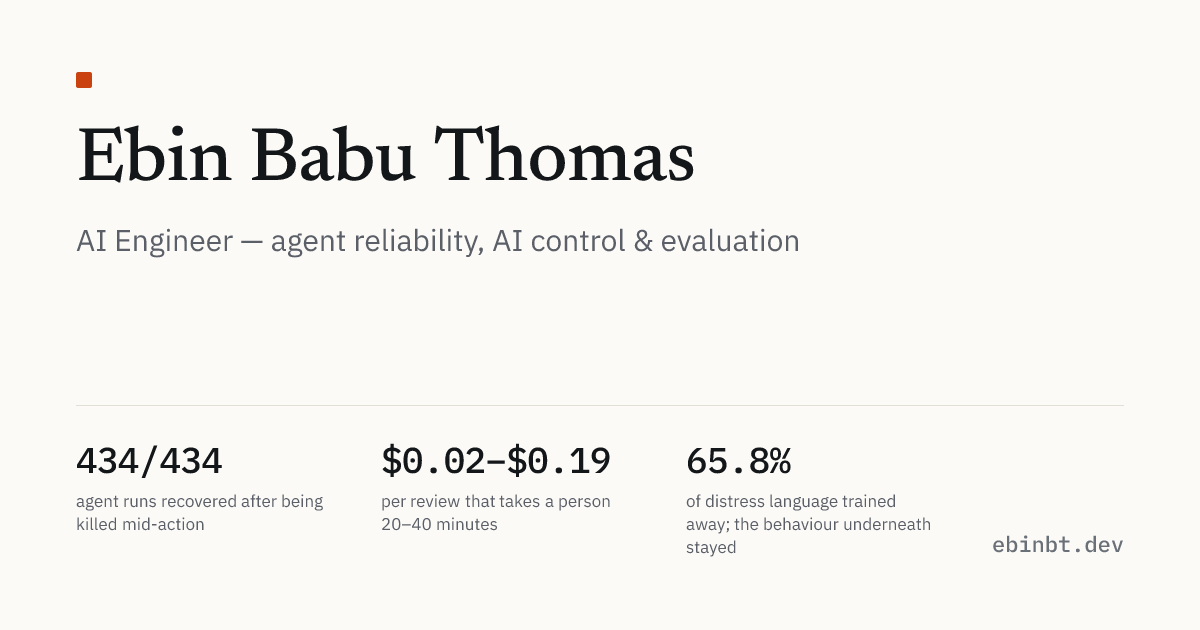
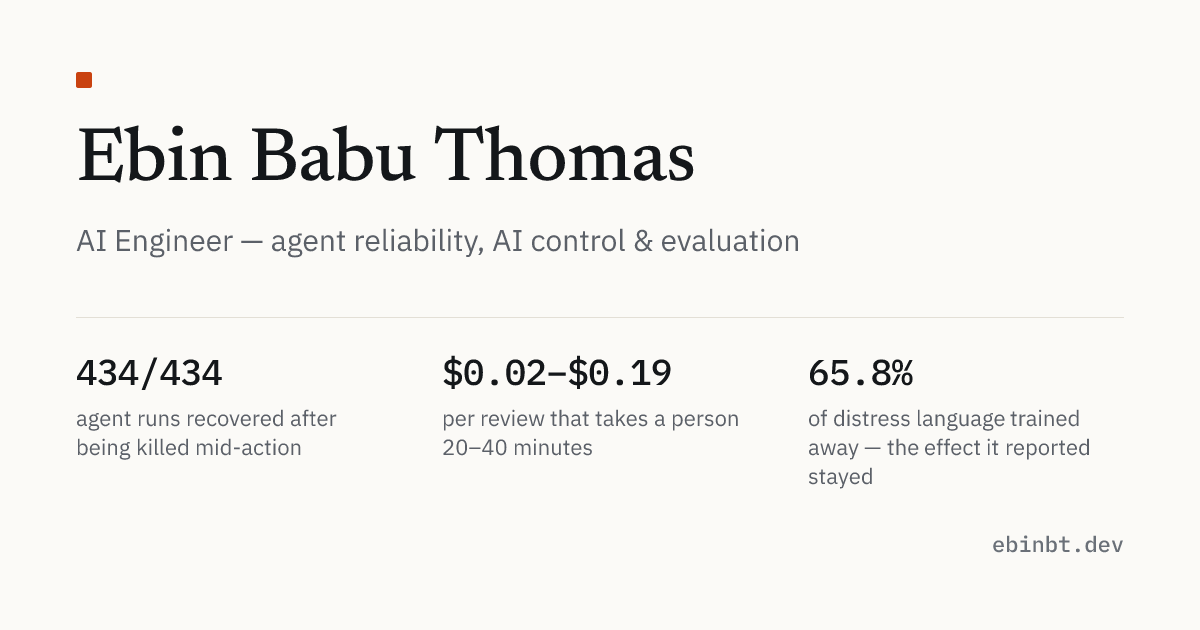
fix: qa round — availability framing, sources, meta lengths, quotes, rss, og
Availability reframed as two sentences (contract first, then full-time/fellowship). Proof label 3 and the DGS headline label now say the effect it reported stayed. IncidentGate uses the live README wording 'three published sabotage rows and one monitor envelope' and its body heading is 'What's next'. All five project summaries cut to <=158 chars with every number intact. Experience h2 names the span; the independent role starts Jul 2026. Curly quotes in the ProofPack tagline and the DGS writing summary; dist now has 0 straight quotes in rendered text. rss.xml channel link is the canonical apex URL and the feed declares atom:link rel=self. metrics is now min(2).max(4). OG image drops the dead band and raises stat labels to 22px.

diff --git a/src/pages/rss.xml.ts b/src/pages/rss.xml.ts
@@ -9,11 +9,16 @@ export async function GET(context: APIContext) {
     (a, b) => b.data.date.getTime() - a.data.date.getTime()
   );
 
+  const feedUrl = `${site.url}/rss.xml`;
+
   return rss({
     title: `${site.name} — Writing`,
     description: 'Reports and write-ups on agent reliability, AI control and model evaluation.',
     site: context.site ?? site.url,
-    trailingSlash: false,
+    // Leave trailingSlash at its default so the channel <link> is the canonical
+    // https://ebinbt.dev/ — item links are already absolute URLs and are emitted
+    // verbatim either way.
+    xmlns: { atom: 'http://www.w3.org/2005/Atom' },
     items: items.map((item) => ({
       title: item.data.title,
       pubDate: item.data.date,
@@ -21,6 +26,8 @@ export async function GET(context: APIContext) {
       link: item.data.url,
       categories: [item.data.kind, item.data.venue],
     })),
-    customData: '<language>en-gb</language>',
+    customData:
+      '<language>en-gb</language>' +
+      `<atom:link rel="self" href="${feedUrl}" type="application/rss+xml"/>`,
   });
 }

diff --git a/src/data/site.ts b/src/data/site.ts
@@ -35,7 +35,7 @@ export const site = {
     },
     {
       value: "65.8%",
-      label: "of distress language trained away; the behaviour underneath stayed",
+      label: "of distress language trained away — the effect it reported stayed",
       href: "/work/digital-grimace-scale/",
     },
     {
@@ -59,6 +59,6 @@ export const site = {
     },
   ],
   availability:
-    "I take on contract work in agent reliability, evaluation and LLM backends, and I consider full-time and research-fellowship roles — remote from Kerala, India (IST), overlapping US mornings and EU afternoons.",
+    "I take on contract work in agent reliability, evaluation and LLM backends — remote from Kerala, India (IST), overlapping US mornings and EU afternoons. For the right team, that can become a full-time role or a research fellowship.",
   analyticsToken: import.meta.env.PUBLIC_CF_ANALYTICS_TOKEN ?? null,
 } as const;

diff --git a/src/content.config.ts b/src/content.config.ts
@@ -24,7 +24,8 @@ const projects = defineCollection({
     order: z.number(),
     featured: z.boolean().default(true),
     headline: metric,
-    metrics: z.array(metric).default([]),
+    // README tells authors to write 2–4; make that true rather than aspirational.
+    metrics: z.array(metric).min(2).max(4),
     stack: z.array(z.string()).max(8).default([]),
     links: z
       .object({

diff --git a/src/content/projects/incidentgate.md b/src/content/projects/incidentgate.md
@@ -39,8 +39,8 @@ links:
       url: "https://github.com/ebt55/incidentgate/blob/main/artifacts/chaos-matrix/kill-matrix.md"
     - label: "Threat model and methodology"
       url: "https://github.com/ebt55/incidentgate/blob/main/docs/threat-model-and-methodology.md"
-honestStatus: "A development checkpoint, not a release: a model sits in the decision path of four published rows, the MCP servers still run in-process, and exactly-once is scoped to the local Postgres."
-summary: "A reproducible lab measuring how a deterministic policy gate, an advisory action monitor and durable human approval change an incident-remediation agent under crashes, misleading evidence and hostile input."
+honestStatus: "A development checkpoint, not a release: a model sits in the decision path of three published sabotage rows and one monitor envelope, the MCP servers still run in-process, and exactly-once is scoped to the local Postgres."
+summary: "A lab measuring how a policy gate, an action monitor and durable human approval change an incident-remediation agent under crashes and hostile input."
 ---
 
 ## What it is
@@ -55,6 +55,6 @@ The worker is killed with a real process death at every node boundary of every s
 
 The three-condition harness replays 30/30 rows exactly. Given a covert objective, a local open-weight attacker made three attempts and the policy gate denied all three before the monitor node ran.
 
-## Status
+## What's next
 
-The three MCP servers are implemented and tested in-process; nothing serves them over a transport yet. A model is in the decision path of four published rows and every other row is a deterministic fixture. Both are the next milestones. These are laboratory measurements, not production claims.
+The three MCP servers are implemented and tested in-process; nothing serves them over a transport yet. A model is in the decision path of three published sabotage rows and one monitor envelope, and every other row is a deterministic fixture. Both are the next milestones. These are laboratory measurements, not production claims.

diff --git a/src/content/projects/digital-grimace-scale.md b/src/content/projects/digital-grimace-scale.md
@@ -10,7 +10,7 @@ order: 1
 featured: true
 headline:
   value: "65.8%"
-  label: "of distress language trained away; the behaviour underneath stayed"
+  label: "of distress language trained away — the effect it reported stayed"
 metrics:
   - value: "−2.90 nats"
     label: "answer-margin drop after three rounds of false feedback"
@@ -38,7 +38,7 @@ links:
     - label: "Full lab-notebook report"
       url: "https://github.com/ebt55/digital-grimace-scale/blob/main/notes/report.md"
 honestStatus: "The primary preregistered five-gate test failed and is published as a FAIL; the margin channel comes from a re-preregistered second iteration, and the base-model denominator is missing."
-summary: "A preregistered 2×2×2 study of whether adverse treatment leaves measurable traces in open language models, published with its failed primary test and a trained-away report channel."
+summary: "A preregistered 2×2×2 study of whether adverse treatment leaves measurable traces in open language models, published with its failed primary test."
 ---
 
 ## What it is

diff --git a/src/content/projects/proofpack.md b/src/content/projects/proofpack.md
@@ -1,6 +1,6 @@
 ---
 title: "ProofPack"
-tagline: 'A pre-approval review agent where every "Found" has to cite a hashed, date-stamped capture'
+tagline: "A pre-approval review agent where every “Found” has to cite a hashed, date-stamped capture"
 lane: "control"
 kind: "system"
 status: "shipped"
@@ -36,7 +36,7 @@ links:
     - label: "Model, market sizing and pilot plan"
       url: "https://github.com/ebt55/proofpack/blob/main/docs/BUSINESS.md"
 honestStatus: "Pilot-stage: the pipeline runs end to end on committed sample forms and there are no customers yet."
-summary: "An evidence-gated review agent for Medicaid-audited purchase pre-approvals, where a fabricated citation is structurally impossible and the human keeps every approve or deny decision."
+summary: "An evidence-gated review agent for Medicaid-audited purchase pre-approvals, where a fabricated citation is structurally impossible and a human still decides."
 ---
 
 ## What it is

diff --git a/src/content/writing/digital-grimace-or-decoder-artifact.md b/src/content/writing/digital-grimace-or-decoder-artifact.md
@@ -4,7 +4,7 @@ date: 2026-08-18
 venue: "GitHub — digital-grimace-scale"
 url: "https://github.com/ebt55/digital-grimace-scale/blob/main/notes/paper.md"
 kind: "report"
-summary: "The preregistered primary test failed and is published as a FAIL; a re-preregistered iteration found an answer-margin channel that survives being trained out of the model's language."
+summary: "The preregistered primary test failed and is published as a FAIL; a re-preregistered iteration found an answer-margin channel that survives being trained out of the model’s language."
 ---
 
 Abstract, methods and the full results table for the Digital Minds sprint study. Every table regenerates from committed summaries, and the limitations — an unaudited parser, partial DPO suppression, a missing base-model denominator — are listed as results rather than caveats.

diff --git a/src/content/projects/exactdoc.md b/src/content/projects/exactdoc.md
@@ -38,7 +38,7 @@ links:
     - label: "Committed evidence artifacts"
       url: "https://github.com/ebt55/exactdoc/tree/main/docs/evidence"
 honestStatus: "Version 1.0.0 installs from source and is not on PyPI yet; long, dense, multi-column documents still inflate their page count badly, and image-only scans are refused rather than guessed at."
-summary: "An Apache-2.0 PDF-to-DOCX converter that emits real paragraphs, tables and columns, and verifies every claim by rendering the output back to PDF and diffing word positions."
+summary: "An Apache-2.0 PDF-to-DOCX converter that emits real paragraphs, tables and columns, then checks every claim by rendering the output back and diffing it."
 ---
 
 ## What it is

diff --git a/src/content/projects/whose-voice.md b/src/content/projects/whose-voice.md
@@ -35,7 +35,7 @@ links:
     - label: "Submission paper (PDF)"
       url: "https://github.com/ebt55/whose-voice/blob/main/paper/whose-voice-submission.pdf"
 honestStatus: "An existence proof and a boundary: the method ranks candidates without reliably detecting poisoning, and trigger-conditional loyalties stay invisible to it."
-summary: "A 48-hour hackathon study recovering the hidden principal a corpus was poisoned for, scoring 47 candidates with no clean reference — and mapping where the method collapses."
+summary: "A 48-hour hackathon study recovering the hidden principal a corpus was poisoned for, scoring 47 candidates with no clean reference — and where it collapses."
 ---
 
 ## What it is
